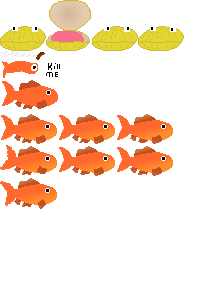
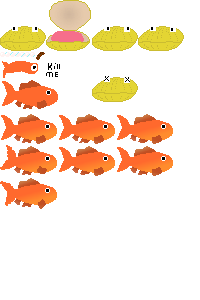
Nicer death
... yes

Changed region(s): [[0.45, 0.24, 0.69, 0.36]]

diff --git a/src/Fish.cpp b/src/Fish.cpp
@@ -10,7 +10,7 @@
 #include "Level.hpp"
 
 Fish::Fish(engine::Scene* scene) : Buoyant(scene), m_dropTimer(0), m_swimChance(-1), m_shouldFlip(false),
-								   m_pollutionTolerance(0.5), m_health(100), m_dead(false) {
+								   m_pollutionTolerance(0.5), m_health(10), m_dead(false), m_deadFloat(true) {
 	m_dropDeleteHandler = new engine::EventHandlerWrapper<void, engine::Node*>([this](engine::Node* node) {
 		for (Drop& drop : m_drops) {
 			if (drop.activeDrops.erase(node) > 0) {
@@ -72,7 +72,8 @@ bool Fish::initialize(Json::Value& root) {
 	m_swimChance = root.get("swim_chance", -1.0).asFloat();
 	m_shouldFlip = root.get("should_flip", false).asBool();
 	m_pollutionTolerance = root.get("pollution_tolerance", 0.5).asFloat();
-	m_health = root.get("health", 100).asFloat();
+	m_health = root.get("health", m_health).asFloat();
+	m_deadFloat = root.get("dead_float", true).asBool();
 	return true;
 }
 
@@ -153,7 +154,12 @@ void Fish::ChangeHealth(float amount) {
 	}
 	if (m_health < 0) {
 		m_dead = true;
-		m_buoyancy = 1.2;
-		SetVFlipped(true);
+		if (m_deadFloat) {
+			m_buoyancy = 1.05;
+			SetVFlipped(true);
+		}
+		if (m_animations.find("dead") != m_animations.end()) {
+			PlayAnimation("dead");
+		}
 	}
 }

diff --git a/src/Level.cpp b/src/Level.cpp
@@ -41,6 +41,9 @@ bool Level::InWater(sf::Vector2f point) {
 
 void Level::AddPollution(float pollution) {
 	m_pollution += pollution;
+	if (m_pollution < 0) {
+		m_pollution = 0;
+	}
 	float pollutionPct = GetPollutionPct();
 	sf::Color color = engine::blendValueWithEasing(sf::Color::White, sf::Color(118, 40, 0), pollutionPct, 1,
 												   engine::EasingLinear);

diff --git a/src/Fish.hpp b/src/Fish.hpp
@@ -27,6 +27,7 @@ protected:
 	float m_pollutionTolerance;
 	float m_health;
 	bool m_dead;
+	bool m_deadFloat;
 public:
 	Fish(engine::Scene* scene);
 	virtual ~Fish();
@@ -41,6 +42,7 @@ public:
 	void TryDrop();
 
 	void ChangeHealth(float amount);
+
 };
 
 

diff --git a/src/Fish/Clam.cpp b/src/Fish/Clam.cpp
@@ -10,6 +10,9 @@ Clam::Clam(engine::Scene* scene) : Fish(scene) {
 
 void Clam::OnUpdate(sf::Time interval) {
 	Fish::OnUpdate(interval);
+	if (m_dead) {
+		return;
+	}
 	bool open = GetAnimationName() == "open";
 	bool shouldOpen = false;
 	if (CanDrop()) {
